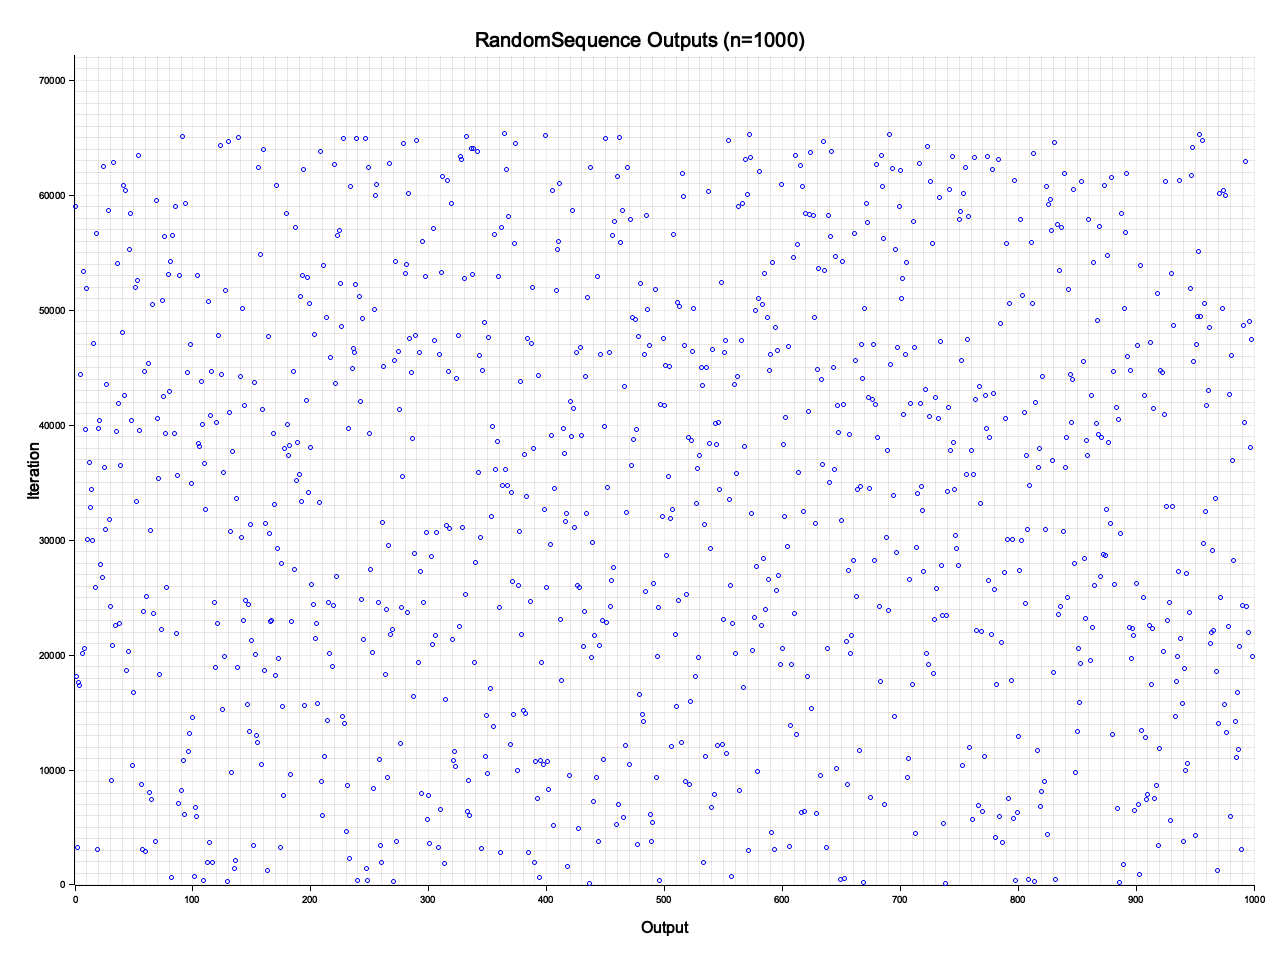
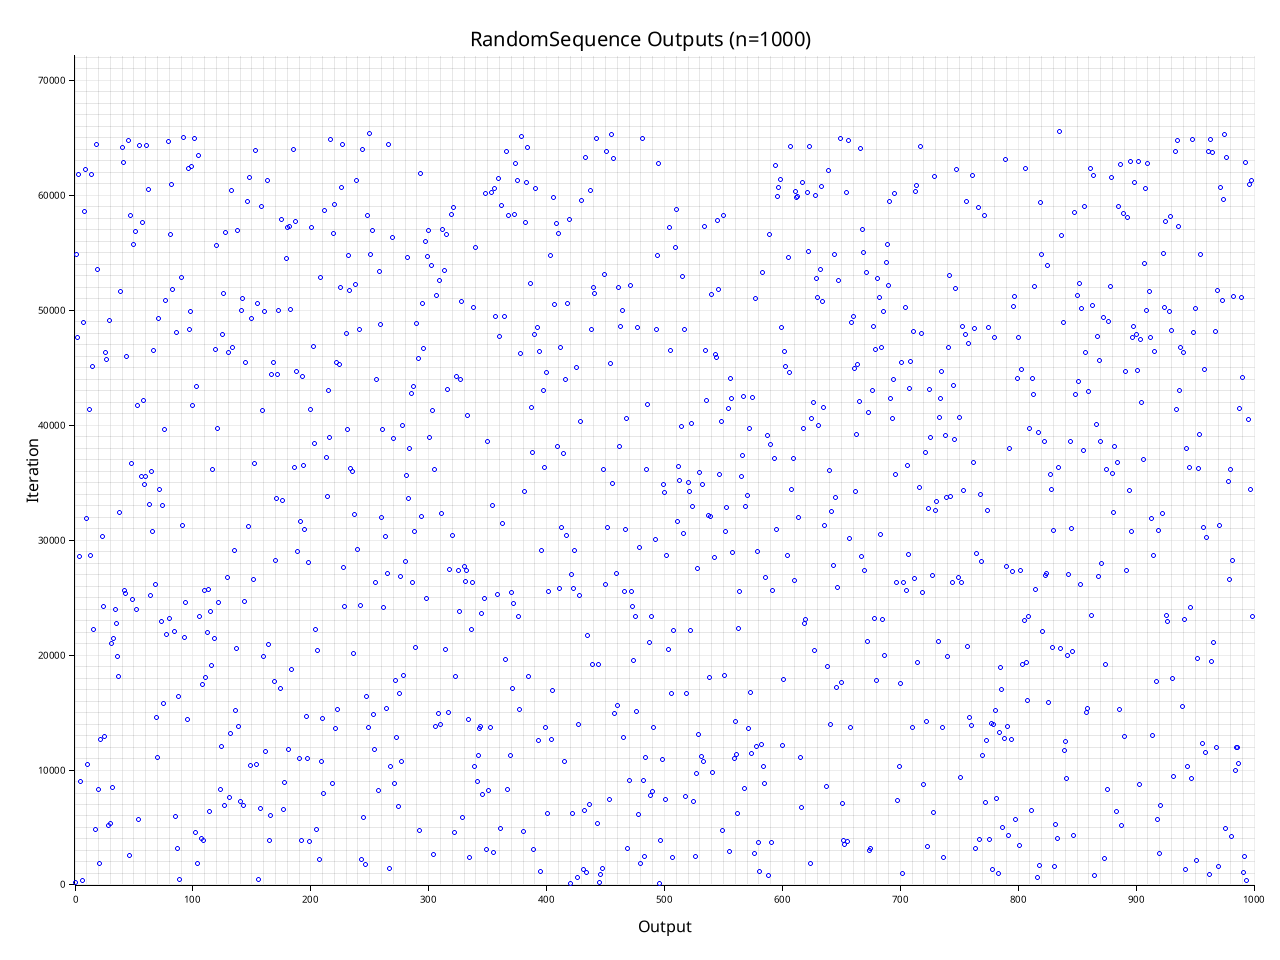
Bump rand version
Includes a breaking API change (`rand()` helper methods require `TryRng`
instead of `RngCore`).

diff --git a/src/rand.rs b/src/rand.rs
@@ -1,4 +1,4 @@
-use rand::RngCore;
+use rand::TryRng;
 
 use crate::{RandomSequence, RandomSequenceBuilder};
 
@@ -6,29 +6,29 @@ macro_rules! init_rand {
     ($type:ident, $tests:ident) => {
         impl RandomSequenceBuilder<$type> {
             /// Initialise a RandomSequenceBuilder from a random seed.
-            pub fn rand(rng: &mut impl RngCore) -> Self {
-                let seed_base = rng.next_u64() as $type;
-                let seed_offset = rng.next_u64() as $type;
+            pub fn rand(rng: &mut impl TryRng) -> Self {
+                let seed_base = rng.try_next_u64().unwrap() as $type;
+                let seed_offset = rng.try_next_u64().unwrap() as $type;
                 Self::new(seed_base, seed_offset)
             }
         }
 
         impl RandomSequence<$type> {
             /// Initialise a RandomSequence from a random seed.
-            pub fn rand(rng: &mut impl RngCore) -> Self {
+            pub fn rand(rng: &mut impl TryRng) -> Self {
                 RandomSequenceBuilder::<$type>::rand(rng).into_iter()
             }
         }
 
         #[cfg(test)]
         mod $tests {
-            use rand::rngs::OsRng;
+            use rand::rngs::SysRng;
 
             use super::*;
 
             #[test]
             fn test_rand() {
-                let mut rng = OsRng;
+                let mut rng = SysRng;
                 let config1 = RandomSequenceBuilder::<$type>::rand(&mut rng);
                 let config2 = RandomSequenceBuilder::<$type>::rand(&mut rng);
                 assert_ne!(config1, config2);

diff --git a/examples/distribution.rs b/examples/distribution.rs
@@ -1,7 +1,7 @@
 use std::error::Error;
 
 use plotters::prelude::*;
-use rand::rngs::OsRng;
+use rand::rngs::SysRng;
 use rand_unique::RandomSequence;
 
 /// Generate histogram and scatter plots for a u16 sequence to demonstrate uniformity.
@@ -18,7 +18,7 @@ fn plot_histogram(file_name: &str, bins: u32, count: u32) -> Result<(), Box<dyn 
     let root = BitMapBackend::new(file_name, (1280, 960)).into_drawing_area();
     root.fill(&WHITE)?;
 
-    let sequence = RandomSequence::<T>::rand(&mut OsRng);
+    let sequence = RandomSequence::<T>::rand(&mut SysRng);
     let data: Vec<T> = sequence.take(count as usize).collect();
     let binned: Vec<(u32, u32)> =
         data.iter().map(|x| ((*x as f64 / (T::MAX as f64 / bins as f64)) as u32, 1)).collect();
@@ -54,7 +54,7 @@ fn plot_scatter(file_name: &str, count: u32) -> Result<(), Box<dyn Error>> {
     let root = BitMapBackend::new(file_name, (1280, 960)).into_drawing_area();
     root.fill(&WHITE)?;
 
-    let sequence = RandomSequence::<T>::rand(&mut OsRng);
+    let sequence = RandomSequence::<T>::rand(&mut SysRng);
     let data: Vec<(u32, u32)> = sequence.take(count as usize).enumerate().map(|(i, o)| (i as u32, o as u32)).collect();
 
     let mut chart = ChartBuilder::on(&root)

diff --git a/benches/bench.rs b/benches/bench.rs
@@ -5,7 +5,7 @@ criterion_main!(benches);
 
 mod sequence {
     use criterion::{black_box, BatchSize, Bencher, Criterion};
-    use rand::rngs::OsRng;
+    use rand::{self, rngs::SysRng};
     use rand_unique::RandomSequence;
 
     pub fn sequence_bench(c: &mut Criterion) {
@@ -14,14 +14,13 @@ mod sequence {
         group.bench_function("n_u16", bench_n_u16);
         group.bench_function("n_u32", bench_n_u32);
         group.bench_function("n_u64", bench_n_u64);
-        group.bench_function("n_usize", bench_n_usize);
         group.bench_function("rand_u64", bench_rand_u64);
     }
 
     macro_rules! bench_n {
         ($name:ident, $type:ident) => {
             fn $name(b: &mut Bencher) {
-                let sequence = RandomSequence::<$type>::rand(&mut OsRng);
+                let sequence = RandomSequence::<$type>::rand(&mut SysRng);
 
                 b.iter_batched(
                     || rand::random::<$type>(),
@@ -36,7 +35,6 @@ mod sequence {
     bench_n!(bench_n_u16, u16);
     bench_n!(bench_n_u32, u32);
     bench_n!(bench_n_u64, u64);
-    bench_n!(bench_n_usize, usize);
 
     /// Compare standard random number generation time.
     fn bench_rand_u64(b: &mut Bencher) {

diff --git a/src/sequence.rs b/src/sequence.rs
@@ -200,7 +200,7 @@ mod tests {
     use std::collections::{HashMap, HashSet};
     use std::vec::Vec;
 
-    use rand::rngs::OsRng;
+    use rand::rngs::SysRng;
     use statrs::distribution::{ChiSquared, ContinuousCDF};
 
     use super::*;
@@ -329,7 +329,7 @@ mod tests {
             #[test]
             fn $name() {
                 const BUCKETS: usize = 100;
-                let config = RandomSequenceBuilder::<$type>::rand(&mut OsRng);
+                let config = RandomSequenceBuilder::<$type>::rand(&mut SysRng);
 
                 // compute a normalised histogram over the sequence with BUCKETS buckets, where each bucket value
                 // is the percentage of values that fall into this bucket

diff --git a/README.md b/README.md
@@ -25,18 +25,18 @@ Properties of each [`RandomSequence`](https://docs.rs/rand-unique/latest/rand_un
 This crate is no-std compatible.
 
 - `default-features`: `rand`
-- `rand`: Enables the `rand(&mut RngCore)` helper methods on `RandomSequenceBuilder` and `RandomSequence` to initialize with random seeds, which requires the `rand` dependency. Can be omitted and instead manually provide seeds to the `RandomSequenceBuilder::seed()` method to instantiate.
+- `rand`: Enables the `rand(&mut TryRng)` helper methods on `RandomSequenceBuilder` and `RandomSequence` to initialize with random seeds, which requires the `rand` dependency. Can be omitted and instead manually provide seeds to the `RandomSequenceBuilder::seed()` method to instantiate.
 - `serde`: Enables serde `Serlialize` and `Deserialize` support for `RandomSequenceBuilder`, which requires the `serde` dependency.
 
 ## Example
 
 ```rust
 use std::collections::HashSet;
-use rand::rngs::OsRng;
+use rand::rngs::SysRng;
 use rand_unique::{RandomSequence, RandomSequenceBuilder};
 
 // Initialise a sequence from a random seed.
-let config = RandomSequenceBuilder::<u16>::rand(&mut OsRng);
+let config = RandomSequenceBuilder::<u16>::rand(&mut SysRng);
 let mut sequence: RandomSequence<u16> = config.into_iter();
 
 // Iterate over the sequence with next() and prev(), or index directly with n(i).
